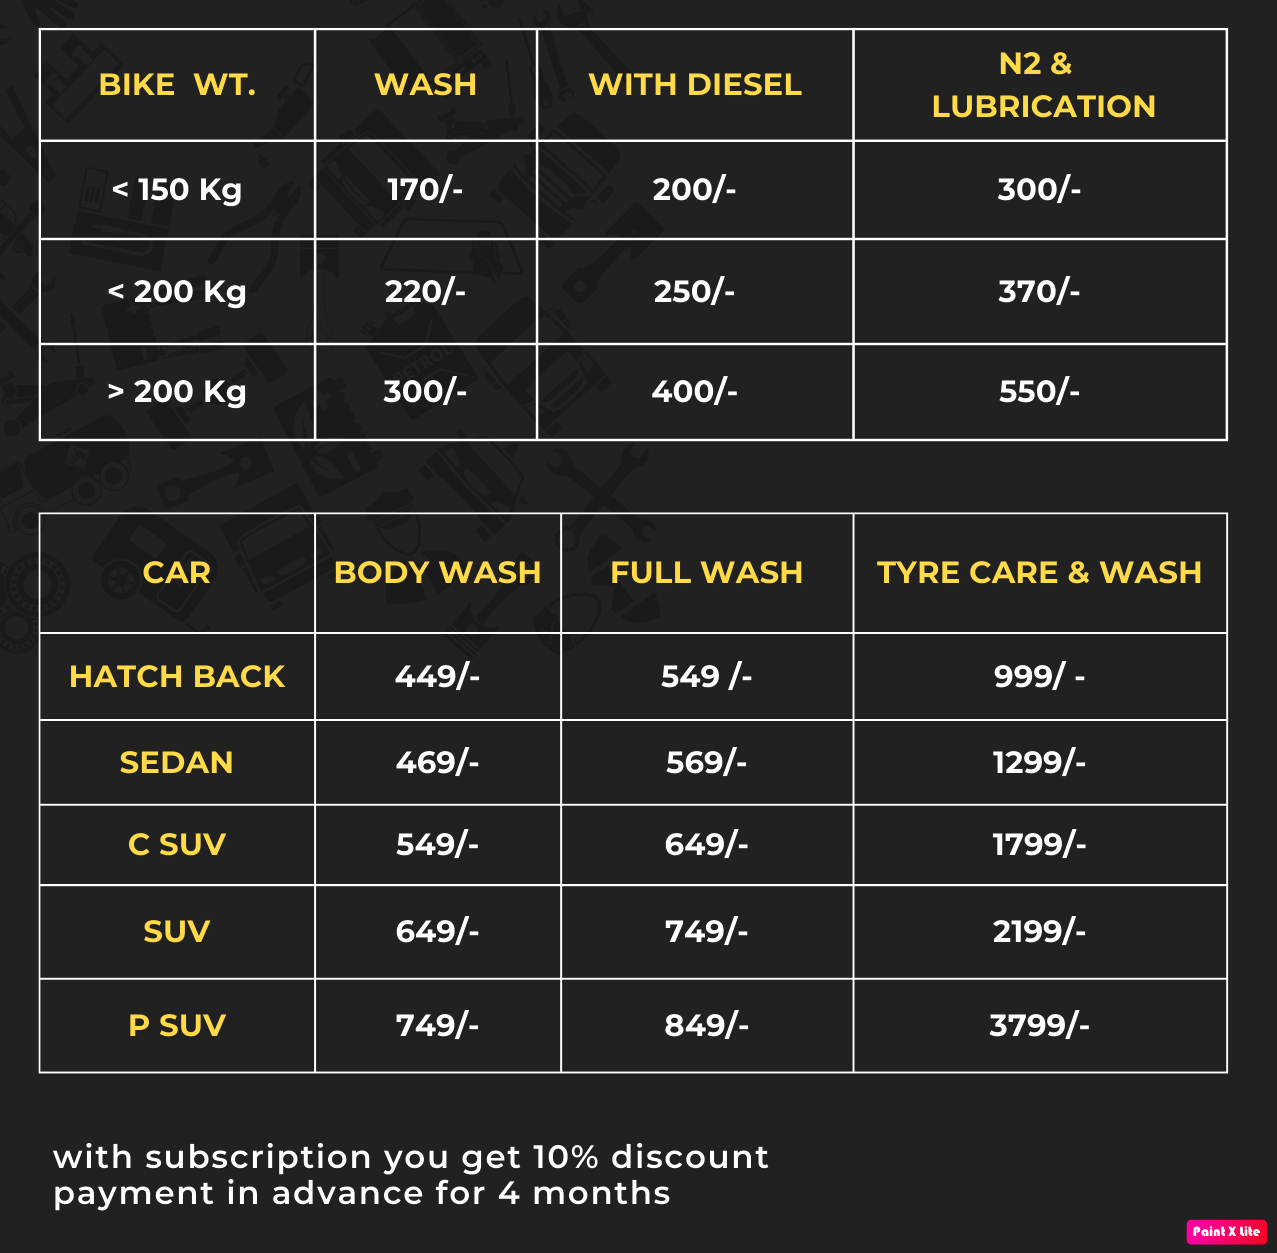
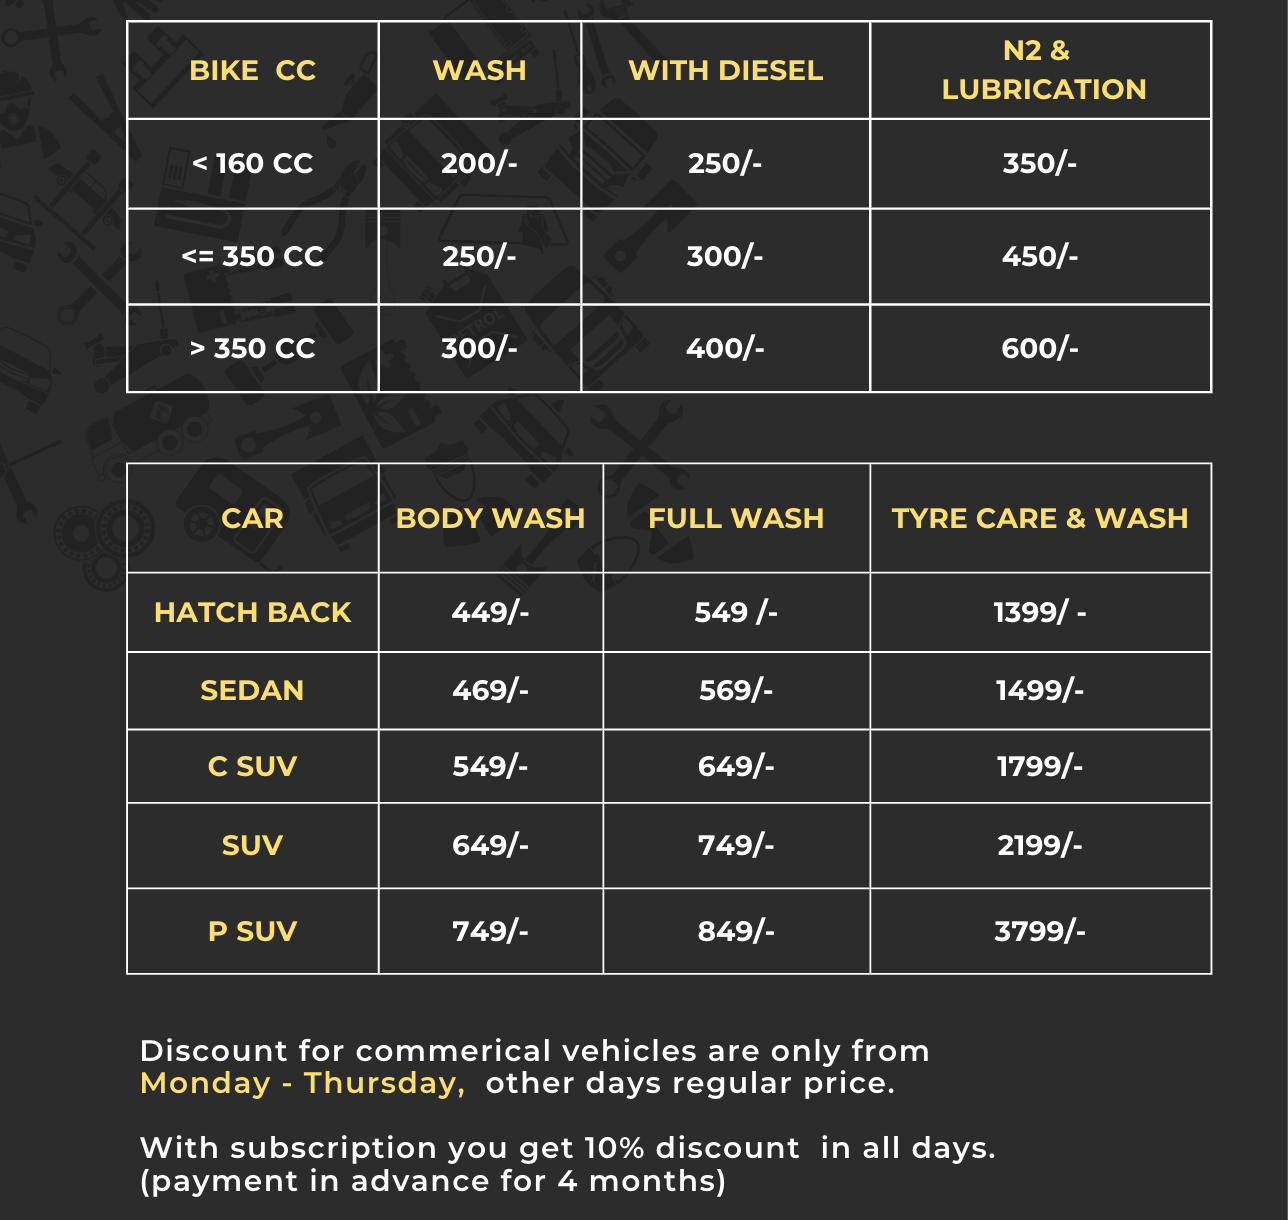
price list changed
price list changed

diff --git a/index.html b/index.html
@@ -263,7 +263,7 @@
                     </div>
                     <div class="about-content">
                         <p>
-                            C suv for compact suv similarly P suv for premium suv types. The listes prices are as new customers where they get additonal free servicces
+                            C suv for compact suv similarly P suv for premium suv types. The listes prices are for new customers where they get additonal free servicces
                             for first time. Regular customers should try our subscription program to get 10% discount on all our services by paying an advance of 4 months.
                         </p>
                         <ul>
